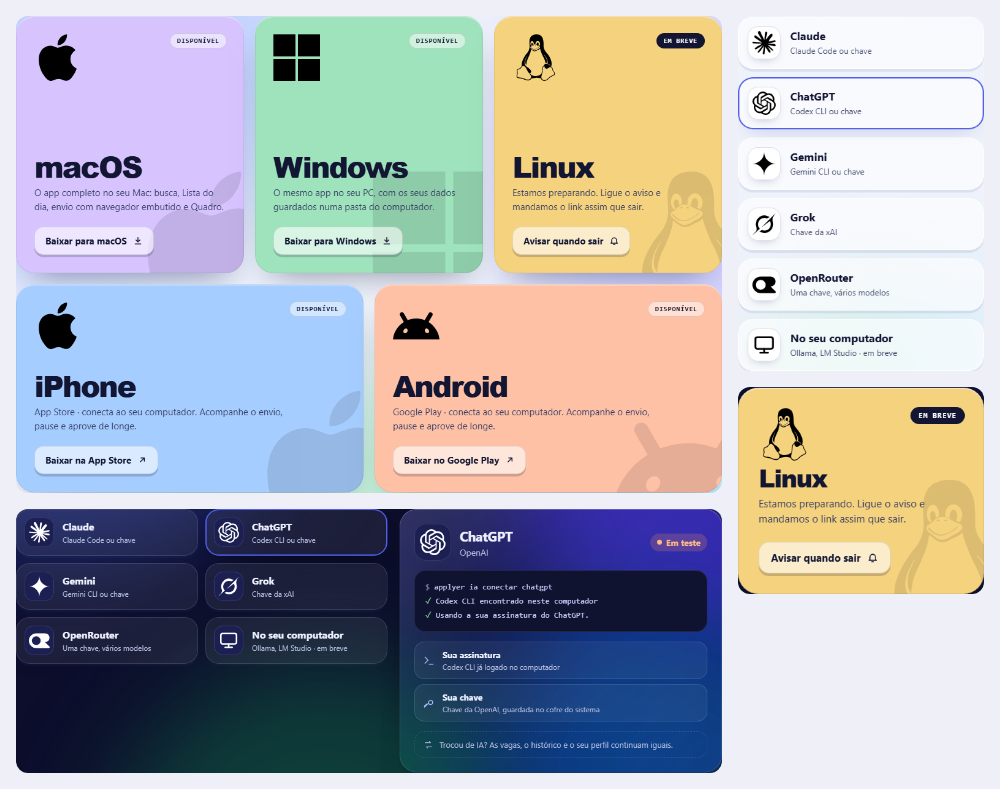
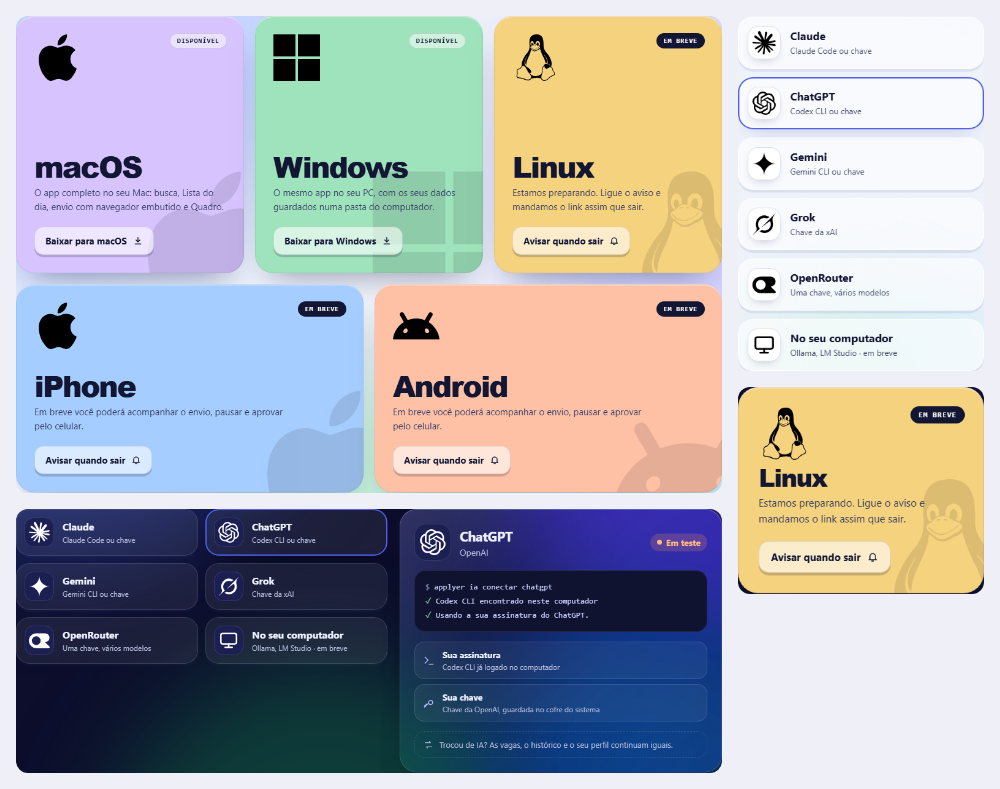
Destaca macOS e Windows e marca os apps móveis como em breve

diff --git a/site/index.html b/site/index.html
@@ -33,7 +33,9 @@
 
 <section class="heroi" id="inicio">
 <a class="novo surge" href="#app"><b>NOVO</b>Navegador embutido: assista cada candidatura<svg class="ic ic-p" viewBox="0 0 24 24" aria-hidden="true"><path d="M5 12h14M13 6l6 6-6 6" /></svg></a>
-<div class="plataformas surge" style="animation-delay: 60ms"><span><svg class="ic ic-p" viewBox="0 0 24 24" aria-hidden="true"><rect x="3" y="4" width="18" height="12" rx="2" /><path d="M2 20h20" /></svg>Mac e Windows</span><i></i><span><svg class="ic ic-p" viewBox="0 0 24 24" aria-hidden="true"><rect x="7" y="2" width="10" height="20" rx="3" /><path d="M11 18h2" /></svg>Controle pelo iPhone e Android</span><i></i><span><svg class="ic ic-p" viewBox="0 0 24 24" aria-hidden="true"><rect x="5" y="11" width="14" height="10" rx="2" /><path d="M8 11V8a4 4 0 0 1 8 0v3" /></svg>Tudo no seu computador</span></div>
+<div class="plataformas surge" style="animation-delay: 60ms">
+<span><img src="marcas/mac.svg" alt=""> macOS e <img src="marcas/win.svg" alt=""> Windows</span><i></i>
+<span><svg class="ic ic-p" viewBox="0 0 24 24" aria-hidden="true"><rect x="5" y="11" width="14" height="10" rx="2" /><path d="M8 11V8a4 4 0 0 1 8 0v3" /></svg>Tudo no seu computador</span></div>
 <h1 class="h1 surge" style="animation-delay: 120ms">Sua próxima vaga, <span class="grad">sem passar o dia aplicando.</span></h1>
 <p class="lead surge" style="animation-delay: 180ms">O Applyer acha vagas da sua área, no Brasil ou lá fora, prepara cada candidatura com o seu currículo e envia quando você aprovar. Um clique por dia, usando a IA que você já paga.</p>
 <div id="espera" class="cta surge" style="animation-delay: 240ms; scroll-margin-top: 120px">
@@ -45,8 +47,8 @@
 <button class="bs-item" type="button" data-plat="win" aria-pressed="false"><img class="marca-so" src="marcas/win.svg" alt="">Windows<small>Disponível</small></button>
 <button class="bs-item" type="button" data-plat="linux" aria-pressed="false"><img class="marca-so" src="marcas/linux.svg" alt="">Linux<small class="breve">Em breve</small></button>
 <span class="bs-grupo">Apps para celular</span>
-<button class="bs-item" type="button" data-plat="ios" aria-pressed="false"><img class="marca-so" src="marcas/mac.svg" alt="">iPhone<small>Disponível</small></button>
-<button class="bs-item" type="button" data-plat="android" aria-pressed="false"><img class="marca-so" src="marcas/android.svg" alt="">Android<small>Disponível</small></button>
+<button class="bs-item" type="button" data-plat="ios" aria-pressed="false"><img class="marca-so" src="marcas/mac.svg" alt="">iPhone<small class="breve">Em breve</small></button>
+<button class="bs-item" type="button" data-plat="android" aria-pressed="false"><img class="marca-so" src="marcas/android.svg" alt="">Android<small class="breve">Em breve</small></button>
 </div>
 </div>
 <a class="btn-play" href="#app"><span class="play-anel"><svg class="ic ic-p" viewBox="0 0 24 24" aria-hidden="true" style="fill: #FFFFFF; stroke: none"><path d="M8 5l11 7-11 7z" /></svg></span>Ver o app rodando</a>
@@ -263,13 +265,13 @@
 <div class="vidro seletor revela" role="group" aria-label="Período de cobrança"><div class="seg-pol" data-seg-pol></div><button class="seg on" type="button" data-periodo="mensal" aria-pressed="true">Mensal</button><button class="seg" type="button" data-periodo="tri" aria-pressed="false">Trimestral</button></div>
 <div class="grade">
 <article class="vidro plano revela"><b style="font-size: 18px">Descoberta</b><span class="preco">Grátis</span><ul><li><svg class="ic ic-p ok-ic" viewBox="0 0 24 24" aria-hidden="true"><path d="M5 12l5 5 9-10" /></svg>Busca e triagem de vagas</li><li><svg class="ic ic-p ok-ic" viewBox="0 0 24 24" aria-hidden="true"><path d="M5 12l5 5 9-10" /></svg>Limite por semana</li></ul><a class="btn-vidro" href="#baixar">Baixar grátis</a></article>
-<article class="vidro plano destaque revela"><b style="font-size: 18px">Pro</b><span class="preco"><span class="marcador">[PREÇO]</span><small data-liga="periodo">/mês</small></span><ul><li><svg class="ic ic-p ok-ic" viewBox="0 0 24 24" aria-hidden="true"><path d="M5 12l5 5 9-10" /></svg>Lista do dia e envio com navegador embutido</li><li><svg class="ic ic-p ok-ic" viewBox="0 0 24 24" aria-hidden="true"><path d="M5 12l5 5 9-10" /></svg>Acompanhamento por e-mail</li><li><svg class="ic ic-p ok-ic" viewBox="0 0 24 24" aria-hidden="true"><path d="M5 12l5 5 9-10" /></svg>Controle pelo celular</li></ul><a class="tecla" href="#baixar">Baixar o app<span class="kbd"><svg class="ic ic-p" viewBox="0 0 24 24" aria-hidden="true"><path d="M12 4v11M7 10l5 5 5-5M5 20h14" /></svg></span></a></article>
+<article class="vidro plano destaque revela"><b style="font-size: 18px">Pro</b><span class="preco"><span class="marcador">[PREÇO]</span><small data-liga="periodo">/mês</small></span><ul><li><svg class="ic ic-p ok-ic" viewBox="0 0 24 24" aria-hidden="true"><path d="M5 12l5 5 9-10" /></svg>Lista do dia e envio com navegador embutido</li><li><svg class="ic ic-p ok-ic" viewBox="0 0 24 24" aria-hidden="true"><path d="M5 12l5 5 9-10" /></svg>Acompanhamento por e-mail</li><li><svg class="ic ic-p ok-ic" viewBox="0 0 24 24" aria-hidden="true"><path d="M5 12l5 5 9-10" /></svg>Controle pelo celular (em breve)</li></ul><a class="tecla" href="#baixar">Baixar o app<span class="kbd"><svg class="ic ic-p" viewBox="0 0 24 24" aria-hidden="true"><path d="M12 4v11M7 10l5 5 5-5M5 20h14" /></svg></span></a></article>
 <article class="vidro plano revela"><b style="font-size: 18px">Com a sua IA</b><span class="preco"><span class="marcador">[PREÇO]</span><small data-liga="periodo">/mês</small></span><ul><li><svg class="ic ic-p ok-ic" viewBox="0 0 24 24" aria-hidden="true"><path d="M5 12l5 5 9-10" /></svg>Tudo do Pro</li><li><svg class="ic ic-p ok-ic" viewBox="0 0 24 24" aria-hidden="true"><path d="M5 12l5 5 9-10" /></svg>Usa a sua assinatura ou a sua chave</li></ul><a class="btn-vidro" href="#baixar">Baixar o app</a></article>
 </div>
 </section>
 
 <section class="secao" id="baixar">
-<div class="secao-cab revela"><span class="eyebrow">Baixar</span><h2 class="h2">Baixe o Applyer.</h2><p class="lead">Escolha sua plataforma. O app roda no computador com Claude, ChatGPT, Gemini ou Grok, e o celular acompanha, pausa e aprova de longe.</p></div>
+<div class="secao-cab revela"><span class="eyebrow">Baixar</span><h2 class="h2">Baixe o Applyer.</h2><p class="lead">Use o Applyer no macOS ou no Windows com Claude, ChatGPT, Gemini ou Grok.</p></div>
 <div class="baixe">
 <article class="so revela" data-so="mac" style="background: #D7C4FF">
 <span class="so-sombra" aria-hidden="true"><img src="marcas/mac.svg" alt=""></span>
@@ -301,19 +303,19 @@
 <article class="so revela larga" data-so="ios" style="background: #A6CDFF">
 <span class="so-sombra" aria-hidden="true"><img src="marcas/mac.svg" alt=""></span>
 <span class="so-ic" aria-hidden="true"><img src="marcas/mac.svg" alt=""></span>
-<span class="so-status">Disponível</span>
+<span class="so-status breve">Em breve</span>
 <h3>iPhone</h3>
-<p>App Store · conecta ao seu computador. Acompanhe o envio, pause e aprove de longe.</p>
-<button class="so-acao" type="button" data-baixar="ios"><span data-so-texto>Baixar na App Store</span><svg class="ic ic-p" viewBox="0 0 24 24" aria-hidden="true" style="stroke-width: 2.2"><path data-so-icone d="M7 17L17 7M9 7h8v8" /></svg></button>
+<p>Em breve você poderá acompanhar o envio, pausar e aprovar pelo celular.</p>
+<button class="so-acao" type="button" data-baixar="ios"><span data-so-texto>Avisar quando sair</span><svg class="ic ic-p" viewBox="0 0 24 24" aria-hidden="true" style="stroke-width: 2.2"><path data-so-icone d="M6 16V11a6 6 0 0 1 12 0v5l2 2H4zM10 21h4" /></svg></button>
 <span class="so-barra" data-so-barra aria-hidden="true" hidden><span></span></span>
 </article>
 <article class="so revela larga" data-so="android" style="background: #FFC1A6">
 <span class="so-sombra" aria-hidden="true"><img src="marcas/android.svg" alt=""></span>
 <span class="so-ic" aria-hidden="true"><img src="marcas/android.svg" alt=""></span>
-<span class="so-status">Disponível</span>
+<span class="so-status breve">Em breve</span>
 <h3>Android</h3>
-<p>Google Play · conecta ao seu computador. Acompanhe o envio, pause e aprove de longe.</p>
-<button class="so-acao" type="button" data-baixar="android"><span data-so-texto>Baixar no Google Play</span><svg class="ic ic-p" viewBox="0 0 24 24" aria-hidden="true" style="stroke-width: 2.2"><path data-so-icone d="M7 17L17 7M9 7h8v8" /></svg></button>
+<p>Em breve você poderá acompanhar o envio, pausar e aprovar pelo celular.</p>
+<button class="so-acao" type="button" data-baixar="android"><span data-so-texto>Avisar quando sair</span><svg class="ic ic-p" viewBox="0 0 24 24" aria-hidden="true" style="stroke-width: 2.2"><path data-so-icone d="M6 16V11a6 6 0 0 1 12 0v5l2 2H4zM10 21h4" /></svg></button>
 <span class="so-barra" data-so-barra aria-hidden="true" hidden><span></span></span>
 </article>
 </div>
@@ -361,11 +363,11 @@
 <button class="bs-item" type="button" data-plat="win" aria-pressed="false"><img class="marca-so" src="marcas/win.svg" alt="">Windows<small>Disponível</small></button>
 <button class="bs-item" type="button" data-plat="linux" aria-pressed="false"><img class="marca-so" src="marcas/linux.svg" alt="">Linux<small class="breve">Em breve</small></button>
 <span class="bs-grupo">Apps para celular</span>
-<button class="bs-item" type="button" data-plat="ios" aria-pressed="false"><img class="marca-so" src="marcas/mac.svg" alt="">iPhone<small>Disponível</small></button>
-<button class="bs-item" type="button" data-plat="android" aria-pressed="false"><img class="marca-so" src="marcas/android.svg" alt="">Android<small>Disponível</small></button>
+<button class="bs-item" type="button" data-plat="ios" aria-pressed="false"><img class="marca-so" src="marcas/mac.svg" alt="">iPhone<small class="breve">Em breve</small></button>
+<button class="bs-item" type="button" data-plat="android" aria-pressed="false"><img class="marca-so" src="marcas/android.svg" alt="">Android<small class="breve">Em breve</small></button>
 </div>
 </div>
-<span class="bs-nota">Mac, Windows, iPhone e Android · Linux em breve</span>
+<span class="bs-nota">macOS e Windows disponíveis · Linux, iPhone e Android em breve</span>
 </section>
 
 <footer class="rodape">
@@ -376,7 +378,7 @@
 <div class="rod-cols">
 <div class="rod-col"><b>Produto</b><a href="#app">O app</a><a href="#como">Como funciona</a><a href="#seguranca">Segurança</a><a href="#preco">Preço</a></div>
 <div class="rod-col"><b>IAs</b><a href="#ia">Claude</a><a href="#ia">ChatGPT</a><a href="#ia">Gemini</a><a href="#ia">Grok</a><a href="#ia">OpenRouter</a></div>
-<div class="rod-col"><b>Applyer</b><a href="#baixar">Baixar para Mac</a><a href="#baixar">Baixar para Windows</a><a href="#baixar">iPhone e Android</a><span class="marcador">[E-MAIL DE CONTATO]</span></div>
+<div class="rod-col"><b>Applyer</b><a href="#baixar">Baixar para Mac</a><a href="#baixar">Baixar para Windows</a><a href="#baixar">iPhone e Android em breve</a><span class="marcador">[E-MAIL DE CONTATO]</span></div>
 </div>
 <div class="rod-baixo"><span>applyer.dev · Feito no Brasil</span><span><span class="marcador">[TERMOS]</span> · <span class="marcador">[PRIVACIDADE]</span></span></div>
 </footer>

diff --git a/site/app.js b/site/app.js
@@ -5,14 +5,14 @@
 
 // Endereço do instalador de cada sistema. PREENCHA ANTES DE PUBLICAR: com o campo vazio, o botão só mostra
 // a animação de exemplo e não baixa nada (o site diria "Download iniciado" sem ter o que baixar).
-const LINKS = { mac: '', win: '', ios: '', android: '' };
+const LINKS = { mac: '', win: '' };
 
 const SISTEMAS = [
   { k: 'mac', nome: 'macOS', grupo: 'pc', acao: 'Baixar para macOS', txt: 'O app completo no seu Mac: busca, Lista do dia, envio com navegador embutido e Quadro.', status: 'Disponível', cor: '#D7C4FF', icone: 'marcas/mac.svg' },
   { k: 'win', nome: 'Windows', grupo: 'pc', acao: 'Baixar para Windows', txt: 'O mesmo app no seu PC, com os seus dados guardados numa pasta do computador.', status: 'Disponível', cor: '#9FE3BC', icone: 'marcas/win.svg' },
   { k: 'linux', nome: 'Linux', grupo: 'pc', acao: 'Avisar quando sair', txt: 'Estamos preparando. Ligue o aviso e mandamos o link assim que sair.', status: 'Em breve', cor: '#F5D27E', icone: 'marcas/linux.svg', breve: true },
-  { k: 'ios', nome: 'iPhone', grupo: 'cel', acao: 'Baixar na App Store', txt: 'App Store · conecta ao seu computador. Acompanhe o envio, pause e aprove de longe.', status: 'Disponível', cor: '#A6CDFF', icone: 'marcas/mac.svg' },
-  { k: 'android', nome: 'Android', grupo: 'cel', acao: 'Baixar no Google Play', txt: 'Google Play · conecta ao seu computador. Acompanhe o envio, pause e aprove de longe.', status: 'Disponível', cor: '#FFC1A6', icone: 'marcas/android.svg' }
+  { k: 'ios', nome: 'iPhone', grupo: 'cel', acao: 'Avisar quando sair', txt: 'Em breve você poderá acompanhar o envio, pausar e aprovar pelo celular.', status: 'Em breve', cor: '#A6CDFF', icone: 'marcas/mac.svg', breve: true },
+  { k: 'android', nome: 'Android', grupo: 'cel', acao: 'Avisar quando sair', txt: 'Em breve você poderá acompanhar o envio, pausar e aprovar pelo celular.', status: 'Em breve', cor: '#FFC1A6', icone: 'marcas/android.svg', breve: true }
 ];
 
 const VAGAS = [
@@ -50,7 +50,7 @@ const PROVEDORES = [
 ];
 // ---------- estado ----------
 const estado = {
-  plat: 'win', menu: null, baixando: '', baixou: '', avisoLinux: false,
+  plat: 'win', menu: null, baixando: '', baixou: '', avisos: {},
   aba: 'hoje', triIdx: 0, fora: {}, prov: 'claude',
   passo: 0, vagaIdx: 0, pipFixo: false, aprovado: false, periodo: 'mensal',
 };
@@ -78,19 +78,18 @@ function alternarTema() {
 const IC_BAIXAR = 'M12 4v11M7 10l5 5 5-5M5 20h14';
 const IC_OK = 'M5 12l5 5 9-10';
 const IC_SINO = 'M6 16V11a6 6 0 0 1 12 0v5l2 2H4zM10 21h4';
-const IC_LOJA = 'M7 17L17 7M9 7h8v8';
 const sistema = k => SISTEMAS.find(s => s.k === k) ?? SISTEMAS[1];
-const feito = s => (s.breve && estado.avisoLinux) || estado.baixou === s.k;
+const feito = s => (s.breve && estado.avisos[s.k]) || estado.baixou === s.k;
 function rotulo(s) {
-  if (s.breve) return estado.avisoLinux ? 'Avisaremos você' : s.acao;
-  if (estado.baixando === s.k) return s.grupo === 'cel' ? 'Abrindo a loja…' : `Baixando para ${s.nome}…`;
-  if (estado.baixou === s.k) return s.grupo === 'cel' ? 'Loja aberta' : 'Download iniciado';
+  if (s.breve) return estado.avisos[s.k] ? 'Avisaremos você' : s.acao;
+  if (estado.baixando === s.k) return `Baixando para ${s.nome}…`;
+  if (estado.baixou === s.k) return 'Download iniciado';
   return s.acao;
 }
 let relogioBaixar = 0;
 function baixar(k) {
   const s = sistema(k);
-  if (s.breve) { estado.avisoLinux = !estado.avisoLinux; estado.menu = null; return desenhar(); }
+  if (s.breve) { estado.avisos[s.k] = !estado.avisos[s.k]; estado.menu = null; return desenhar(); }
   clearTimeout(relogioBaixar);
   Object.assign(estado, { plat: k, baixando: k, baixou: '', menu: null });
   desenhar();
@@ -178,7 +177,7 @@ function desenhar() {
     const s = sistema(cartao.dataset.so);
     texto($('[data-so-texto]', cartao), rotulo(s));
     classe($('.so-acao', cartao), 'feito', feito(s));
-    atributo($('[data-so-icone]', cartao), 'd', feito(s) ? IC_OK : s.breve ? IC_SINO : s.grupo === 'cel' ? IC_LOJA : IC_BAIXAR);
+    atributo($('[data-so-icone]', cartao), 'd', feito(s) ? IC_OK : s.breve ? IC_SINO : IC_BAIXAR);
     escondido($('[data-so-barra]', cartao), estado.baixando !== s.k);
   }
 

diff --git a/site/estilo.css b/site/estilo.css
@@ -65,6 +65,8 @@ a{color:var(--acento)}a:hover{color:var(--texto)}
 .novo b{font-size:11px;font-weight:800;letter-spacing:.08em;color:#fff;padding:4px 9px;border-radius:999px;background:linear-gradient(90deg,#5865F2,#2FBF8A)}
 .plataformas{display:flex;flex-wrap:wrap;justify-content:center;align-items:center;gap:8px 18px;font-size:14px;font-weight:600;color:var(--texto2)}
 .plataformas span{display:inline-flex;align-items:center;gap:7px}
+.plataformas img{width:16px;height:16px;object-fit:contain}
+.escuro .plataformas img{filter:invert(1)}
 .plataformas i{width:4px;height:4px;border-radius:50%;background:var(--texto2);opacity:.5}
 .h1{margin:0;font-family:"Sora","Inter",sans-serif;font-weight:800;font-size:clamp(40px,6.4vw,80px);line-height:1;letter-spacing:-.05em;text-wrap:balance;max-width:980px}
 .grad{background:linear-gradient(90deg,#3B3DBF,#2FBF8A);-webkit-background-clip:text;background-clip:text;color:transparent}

diff --git a/site/README.md b/site/README.md
@@ -22,7 +22,7 @@ npx serve site
 ## Antes de publicar
 
 1. **Links de download.** Em `app.js`, preencha `LINKS` com o endereço do instalador de cada sistema. Com o campo vazio, o botão só mostra a animação de exemplo e não baixa nada.
-2. **Status de cada sistema.** Em `app.js` (`SISTEMAS`) e nos cartões e menus do `index.html`: hoje Linux está "Em breve" e os outros "Disponível".
+2. **Status de cada sistema.** Em `app.js` (`SISTEMAS`) e nos cartões e menus do `index.html`: macOS e Windows aparecem como disponíveis. Linux, iPhone e Android exibem “Avisar quando sair”. O aviso é uma demonstração local à página.
 3. **Textos por preencher**, marcados com colchetes no `index.html`: `[PREÇO]`, `[E-MAIL DE CONTATO]`, `[TERMOS]` e `[PRIVACIDADE]`.
 4. **Comando do terminal** na seção "Sua IA" (`applyer ia conectar …`): é ilustrativo. Troque pelo comando real quando ele existir.
 
